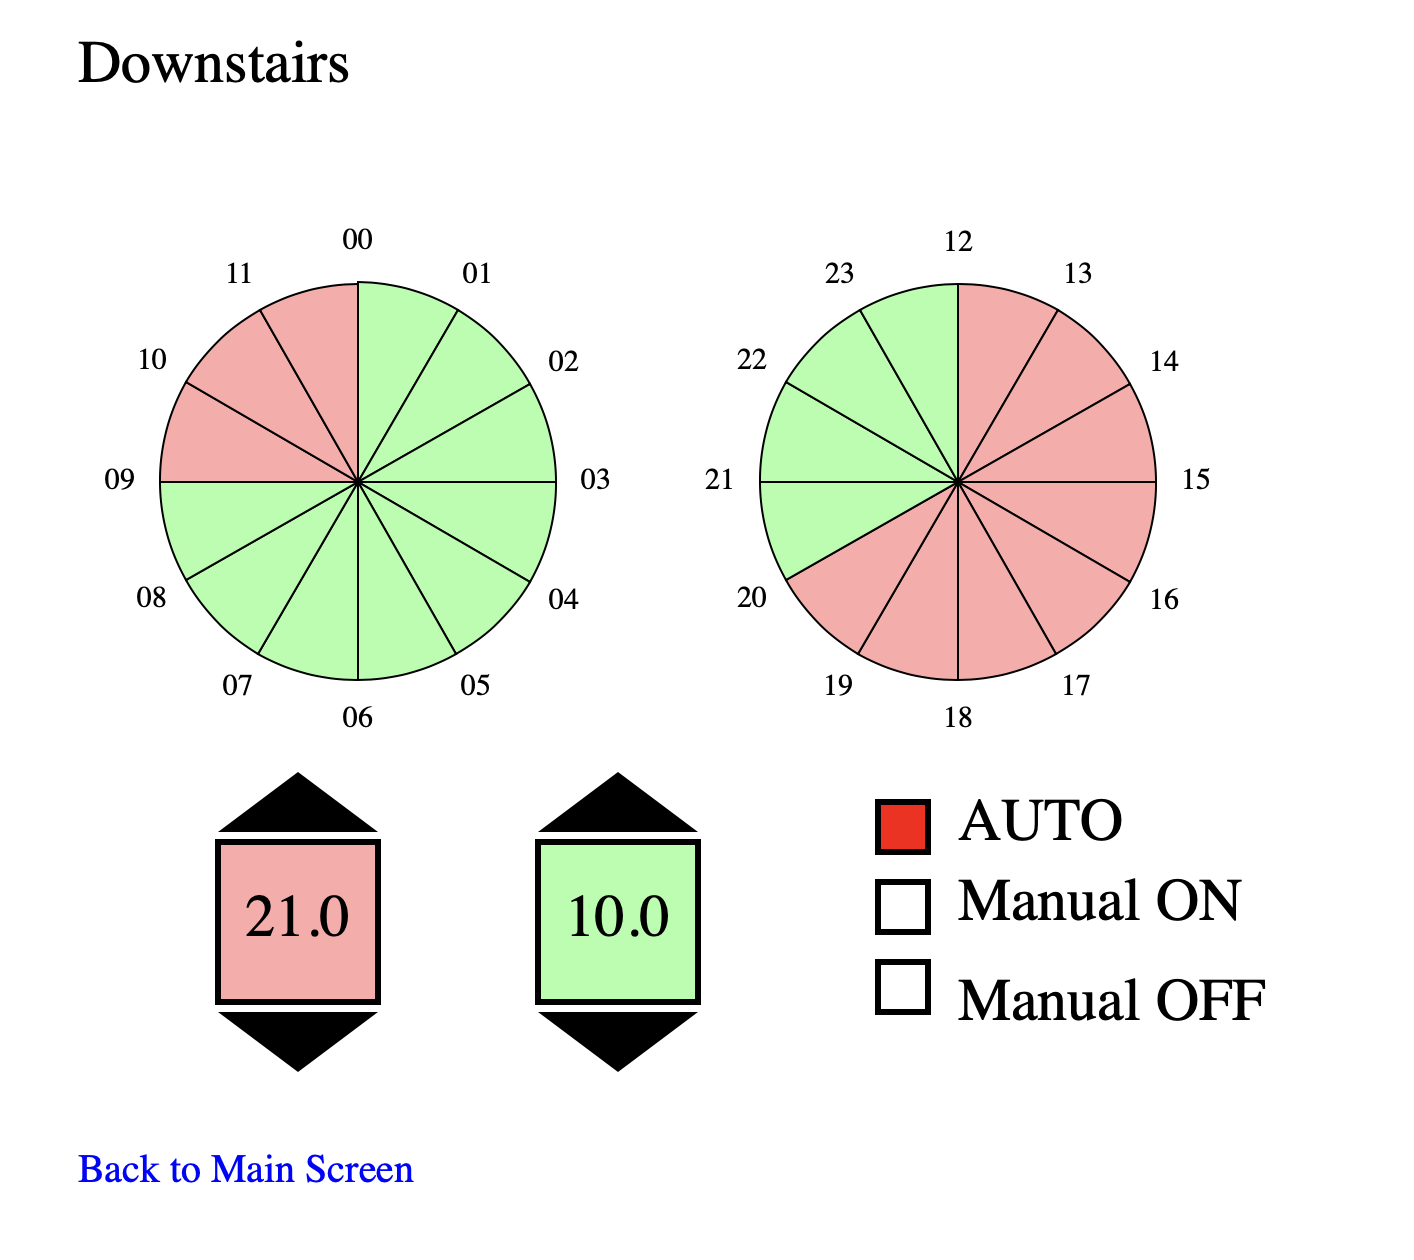
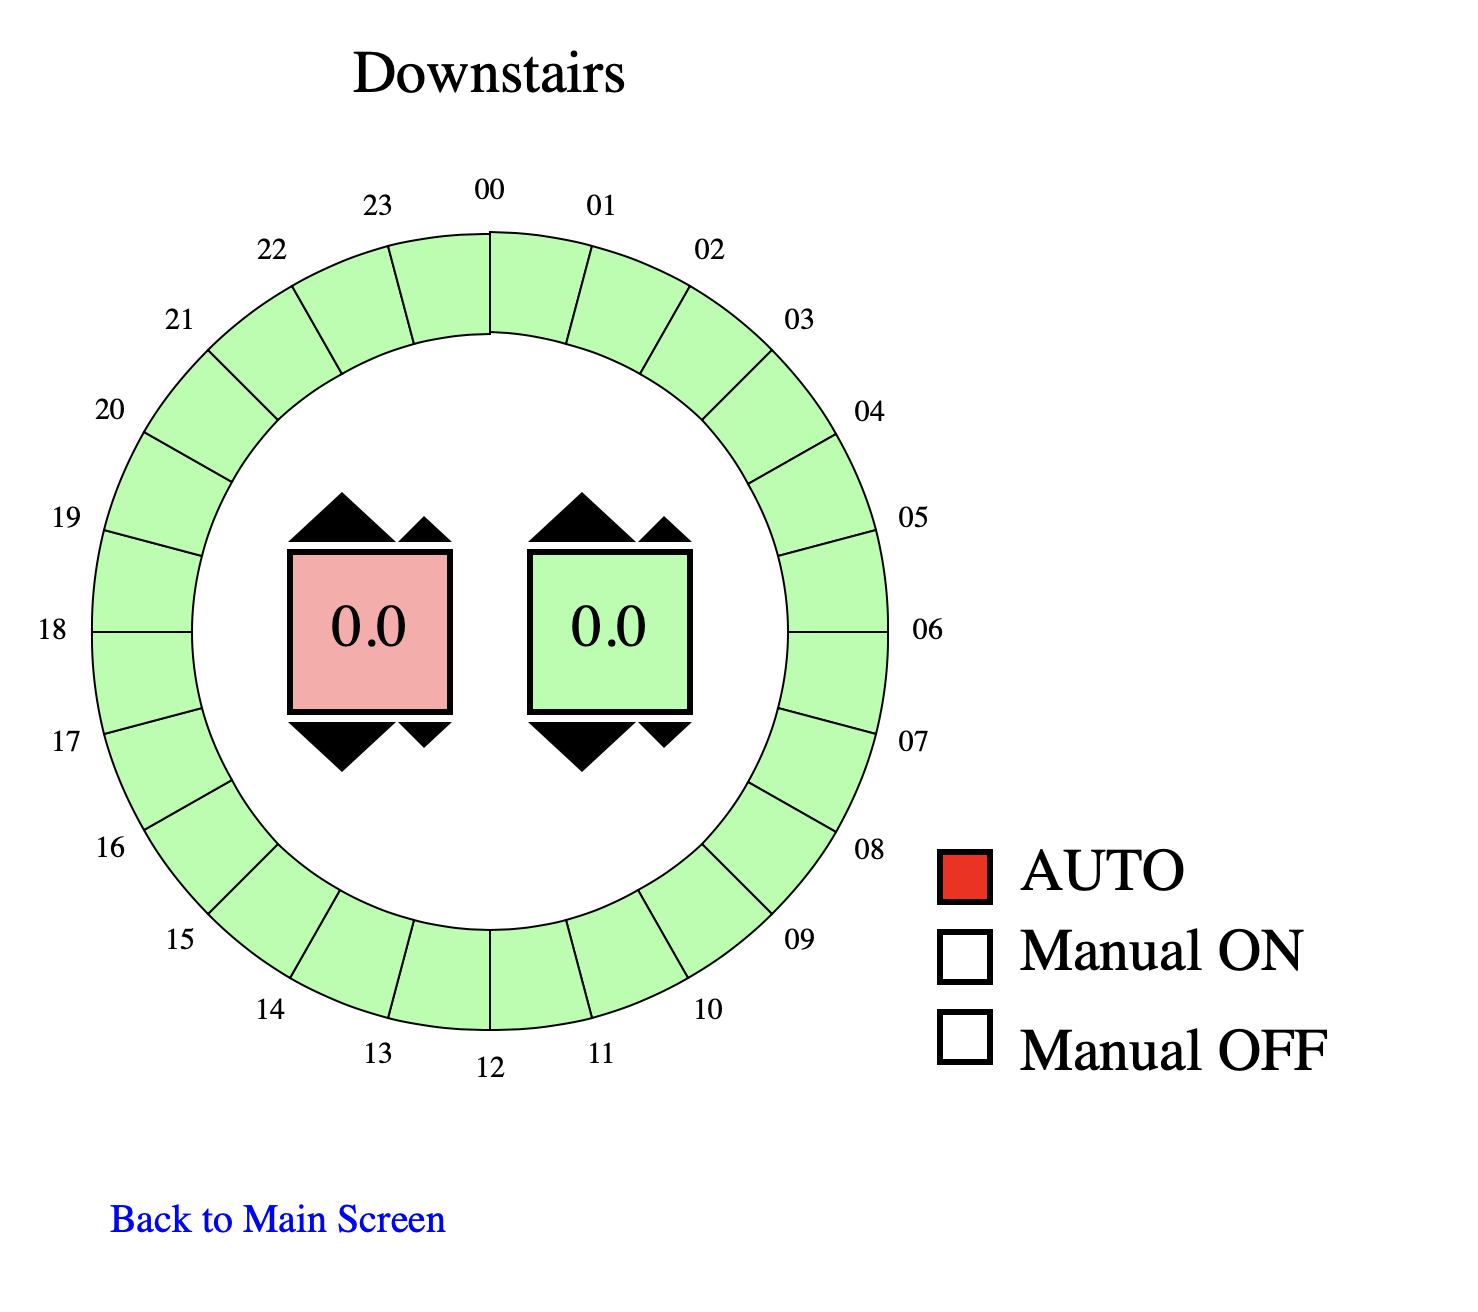
Use AP mode to define credentials. Re-arrange programming screen

diff --git a/config.h b/config.h
@@ -1,8 +1,5 @@
 // **************************CONFIGURATION************************************************
 
-const char* hostname = "heating";
-const char* ntpServer = "pool.ntp.org";
-const char *TZstr = "GMT0BST,M3.3.0/1,M10.5.0";
 // maximum num_zones is EEPROM.BASE() / 8
 
 // read_EEPROM() assumes single digit 
@@ -14,7 +11,9 @@ const char *TZstr = "GMT0BST,M3.3.0/1,M10.5.0";
 
 #define USE_DS2482 
 
+#define EEPROM_SIZE 1536
 #define EEPROM_BASE 256
+#define CREDENTIALS_BASE 1024
 
 byte BLINK_LED = 23;
 float hyst = 0.5; // temperature hysteresis
@@ -22,16 +21,9 @@ float hyst = 0.5; // temperature hysteresis
 const char* boiler_states[3] = {"Off", "On", "Run-On"};
 const char* valve_states[8] = {"closed", "opening", "open", "closing", "stuck open FAULT", "stuck closed FAULT", "sensor FAULT"};
 
-int zone_pos[max_zones][4] =        {{350, 60, 190, 190},
-                                    {350, 250, 190, 140},
-                                    {350, 390, 190, 200},
-                                    {350, 590, 270, 180},
-                                    { 50, 690, 270, 180}};
-
 unsigned long  run_on_time = 120; //seconds
 const char* off_colour = "#aaffaa";
 const char* on_colour = "#ffaaaa";
-
 
 const unsigned long timeoutTime = 40;
 

diff --git a/handleSettings.h b/handleSettings.h
@@ -110,6 +110,7 @@ server.on("/settings", HTTP_GET, [](AsyncWebServerRequest *request){
   __P("</table>");
   __P("<br><br><input type='submit' value='Submit' style='height:50px; width:50px'>");
   __P("</form>");
+  __P("<br><br><a href='credentials'>Network Settings</a>");
   __P("</html>");
   if (!request->authenticate(http_user, http_pass)) return request->requestAuthentication();
   request->send(200, "text/html", content);
@@ -117,20 +118,7 @@ server.on("/settings", HTTP_GET, [](AsyncWebServerRequest *request){
 
 
 server.on("/newsettings", HTTP_GET, [](AsyncWebServerRequest *request){
-  String d = "&";
-  int i;
-  for (i = 0; i < request->args(); i++) {
-    d = d + request->argName(i) + "=" + request->arg(i) + "&";
-  }
-  Serial.println("Writing to EEPROM");
-  Serial.println(d);
-  for (i = 0; i < d.length(); i++) {
-    EEPROM.write(EEPROM_BASE + i, d.charAt(i));
-  }
-  for (; i < d.length() + 8; i++) {
-    EEPROM.write(EEPROM_BASE + i, 0);
-  }
-  EEPROM.commit();
+  write_EEPROM(EEPROM_BASE, request);
   read_EEPROM(EEPROM_BASE);
   request->redirect("/");
 });

diff --git a/globals.h b/globals.h
@@ -89,3 +89,18 @@ int run_on; // bit-field
 byte counter[4] = {0}; // up/down arrow accelleration
 struct tm timeinfo;
 char buffer[200];
+
+//Network credentials
+char ssid[33] = "ssid";
+char password[33] = "password";
+char error_subject[33] = "Heating Fault Detected";
+char error_email[33] = "None";
+char error_recipient[33] = "your@email.address";
+char error_password[33] = "password";
+char smtp_server[33]  = "mail.mail.com";
+int smtp_port = 465;
+char http_user[33] = "admin";
+char http_pass[33] = "admin";
+char hostname[33] = "heating";
+char ntpServer[33] = "pool.ntp.org";
+char TZstr[33] = "GMT0BST,M3.3.0/1,M10.5.0";

diff --git a/README.md b/README.md
@@ -29,7 +29,7 @@ The shape and position of each room is defined by an SVG path, for example:
 "M250 350 v190 h140 v-190 z"
 So that almost any house layout (or limited graphical elements for tanks etc) can be defined. 
 
-<kbd>![Alt text](FrontPage.png?raw=true "Status screen")}</kbd>
+<kbd>![Alt text](FrontPage.png?raw=true "Status screen")</kbd>
 
 Here is one of the programming screens
 
